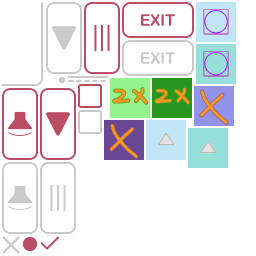
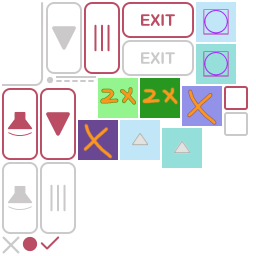
fix sprite sheets, hit chart

Changed region(s): [[0.1875, 0.2812, 0.9688, 0.6562]]

diff --git a/PttrnFlow/PttrnFlow/UI Nodes/TickHitChart.m b/PttrnFlow/PttrnFlow/UI Nodes/TickHitChart.m
@@ -10,7 +10,6 @@
 #import "ColorUtils.h"
 #import "CCSprite+Utils.h"
 #import "TickDispatcher.h"
-#import "SpritePicker.h"
 
 static CGFloat const kHitCellEdge = 2;
 static CGFloat const kHitChartHeight = 24;
@@ -25,28 +24,23 @@ static CGFloat const kHitChartHeight = 24;
 
 @implementation TickHitChart
 
-- (id)initWithNumberOfTicks:(int)numberOfTicks padding:(CGFloat)padding batchNode:(CCSpriteBatchNode *)batchNode origin:(CGPoint)origin
+- (id)initWithSpriteFrameName:(NSString *)spriteFrameName steps:(int)steps unitSize:(CGSize)unitSize
 {
-    self = [super init];
+    self = [super initWithSpriteFrameName:spriteFrameName];
     if (self) {
-        if (numberOfTicks < 1) {
-            NSLog(@"warning: number of ticks for TickerControl should be > 1");
+        if (steps < 1) {
+            NSLog(@"warning: steps for TickHitChart should be > 1");
         }
         
+        self.contentSize = CGSizeMake(unitSize.width * steps, unitSize.height);
         self.hitCells = [NSMutableArray array];
-        NSArray *frameNames = @[@"chart_box_off.png", @"chart_box_on.png"];
 
-        for (int i = 0; i < numberOfTicks; i++) {
-            CCSprite *spr = [CCSprite spriteWithSpriteFrameName:@"chart_box_off.png"];
-            CGPoint relPoint = ccp(i * (spr.contentSize.width + padding), 0);
-            relPoint = ccp(relPoint.x + (spr.contentSize.width / 2), relPoint.y + (spr.contentSize.height / 2));
-            CGPoint absPoint = ccp(relPoint.x + origin.x, relPoint.y + origin.y);
-            SpritePicker *hitCell = [[SpritePicker alloc] initWithFrameNames:frameNames center:absPoint batchNode:batchNode];
-            [self.hitCells addObject:hitCell];
+        for (int i = 0; i < steps; i++) {
+            CCSprite *spr = [CCSprite spriteWithSpriteFrameName:@"chartbox_off.png"];
+            spr.position = ccp((i * unitSize.width + (unitSize.width / 2)), unitSize.height / 2);
+            self.hitCells[i] = spr;
+            [self addChild:spr];
         }
-        
-        SpritePicker *lastCell = [self.hitCells lastObject];
-        self.contentSize = CGSizeMake(lastCell.position.x + lastCell.contentSize.width, lastCell.contentSize.height);
     }
     return self;
 }
@@ -54,28 +48,30 @@ static CGFloat const kHitChartHeight = 24;
 - (void)handleTickHit:(NSNotification *)notification
 {
     NSMutableArray *hits = notification.userInfo[kKeyHits];
-    int tickIndex = hits.count - 1;
-    NSNumber *hitSuccess = hits[tickIndex];
+    int index = hits.count - 1;
+    NSNumber *hitSuccess = hits[index];
     
     kHitStatus status;
     if ([hitSuccess boolValue]) {
         status = kHitStatusSuccess;
     }
     else {
-//        status = kHitStatusFailure;
-        // TODO: temporary until graphics are in
-        status = kHitStatusSuccess;
+        status = kHitStatusFailure;
     }
     
-    SpritePicker *hitCell = self.hitCells[tickIndex];
-    [hitCell pickSprite:status];
+    [self updateIndex:index state:status];
 }
 
 - (void)resetCells
 {
-    for (SpritePicker *cell in self.hitCells) {
-        [cell pickSprite:kHitStatusDefault];
+    for (int i = 0; i < self.hitCells.count; i++) {
+        [self updateIndex:i state:kHitStatusDefault];
     }
+}
+
+- (void)updateIndex:(int)index state:(kHitStatus)state
+{
+    NSLog(@"update index %i with status %i", index, state);
 }
 
 #pragma mark - CCNode SceneManagement
@@ -83,14 +79,12 @@ static CGFloat const kHitChartHeight = 24;
 - (void)onEnter
 {
     [super onEnter];
-    
     [[NSNotificationCenter defaultCenter] addObserver:self selector:@selector(handleTickHit:) name:kNotificationTickHit object:nil];
 }
 
 - (void)onExit
 {
     [[NSNotificationCenter defaultCenter] removeObserver:self];
-    
     [super onExit];
 }
 

diff --git a/PttrnFlow/PttrnFlow/Layers/SequenceUILayer.m b/PttrnFlow/PttrnFlow/Layers/SequenceUILayer.m
@@ -74,32 +74,34 @@ static int const kMaxControlLength = 6;
         CCMenuItemSprite *hamburgerButton = [[CCMenuItemSprite alloc] initWithNormalSprite:hamburgerOff selectedSprite:hamburgerOn disabledSprite:nil target:self selector:@selector(hamburgerButtonPressed:)];
         hamburgerButton.position = ccp((7 * buttonSize.width) / 2, yMidRow1);
         
+        // buttons must be added to a CCMenu to work
+        CCMenu *menu = [CCMenu menuWithItems:exitButton, speakerButton, playButton, hamburgerButton, nil];
+        menu.position = ccp(0, 0);
+        [self addChild:menu];
+        
         // ticker control
         int steps = (tickDispatcher.sequenceLength / 4);
         TickerControl *tickerControl = [[TickerControl alloc] initWithSpriteFrameName:@"clear_rect_uilayer.png" steps:steps unitSize:controlUnitSize];
         tickerControl.tickerControlDelegate = tickDispatcher;
-        tickerControl.position = ccp(tickerControl.contentSize.width / 2, ( 3 * tickerControl.contentSize.height ) / 2);
+        tickerControl.position = ccp(tickerControl.contentSize.width / 2, (3 * tickerControl.contentSize.height) / 2);
+        
+        // hit chart
+        TickHitChart *hitChart = [[TickHitChart alloc] initWithSpriteFrameName:@"clear_rect_uilayer.png" steps:steps unitSize:controlUnitSize];
+        _hitChart = hitChart;
+        hitChart.position = ccp(hitChart.contentSize.width / 2, hitChart.contentSize.height / 2);
         
         // pan sprite
         CGFloat panNodeWidth = MIN(steps, kMaxControlLength) * controlUnitSize.width;
         CGSize panNodeSize = CGSizeMake(panNodeWidth, 2 * controlUnitSize.height);
         CGSize scrollingContainerSize = CGSizeMake(steps * controlUnitSize.width, panNodeSize.height);
         CGPoint panNodeOrigin = ccp(0, controlBarBottom);
-        PanSprite *panSprite = [[PanSprite alloc] initWithSpriteFrameName:@"clear_rect_uilayer.png" contentSize:panNodeSize scrollingSize:scrollingContainerSize scrollSprites:@[tickerControl]];
+        PanSprite *panSprite = [[PanSprite alloc] initWithSpriteFrameName:@"clear_rect_uilayer.png" contentSize:panNodeSize scrollingSize:scrollingContainerSize scrollSprites:@[hitChart, tickerControl]];
         panSprite.scrollDirection = ScrollDirectionHorizontal;
         panSprite.position = panNodeOrigin;
         [self addChild:panSprite];
         
-        // buttons must be added to a CCMenu to work
-        CCMenu *menu = [CCMenu menuWithItems:exitButton, speakerButton, playButton, hamburgerButton, nil];
-        menu.position = ccp(0, 0);
-        [self addChild:menu];
         
-//        // tick hit chart
-//        CGPoint hitChartOrigin = ccp(matchButton.position.x + matchButton.contentSize.width, self.contentSize.height - topBarHeight);
-//        TickHitChart *hitChart = [[TickHitChart alloc] initWithNumberOfTicks:tickDispatcher.sequenceLength padding:2 batchNode:uiBatch origin:hitChartOrigin];
-//        [self addChild:hitChart];
-//        _hitChart = hitChart;
+        
 //
 //        // drag items
 //        int i = 0;

diff --git a/PttrnFlow/PttrnFlow/Generic Nodes/ClippingSprite.m b/PttrnFlow/PttrnFlow/Generic Nodes/ClippingSprite.m
@@ -1,10 +1,15 @@
 //
-//  ClippingNode.m
+//  ClippingSprite.m
 //
 
 #import "ClippingSprite.h"
 
 @implementation ClippingSprite
+
++ (id)clippingSpriteWithRect:(CGRect)rect
+{
+    return [[self alloc] initWithRect:rect];
+}
 
 - (id)initWithRect:(CGRect)rect
 {
@@ -14,17 +19,12 @@
     return self;
 }
 
-+ (id)clippingSpriteWithRect:(CGRect)rect
-{
-    return [[self alloc] initWithRect:rect];
-}
-
--(CGRect) clippingRegion
+- (CGRect)clippingRegion
 {
     return clippingRegionInNodeCoordinates;
 }
 
--(void) setClippingRegion:(CGRect)region
+- (void)setClippingRegion:(CGRect)region
 {
     // keep the original region coordinates in case the user wants them back unchanged
     clippingRegionInNodeCoordinates = region;
@@ -37,13 +37,13 @@
     clippingRegion = CGRectMake(region.origin.x * self.scaleX, region.origin.y * self.scaleY, region.size.width * self.scaleX, region.size.height * self.scaleY);
 }
 
--(void) setScale:(float)newScale
+- (void)setScale:(float)newScale
 {
     [super setScale:newScale];
     [self setClippingRegion:clippingRegionInNodeCoordinates];
 }
 
--(void) visit
+- (void)visit
 {
     glEnable(GL_SCISSOR_TEST);
     CGPoint worldPosition = [self convertToWorldSpace:CGPointZero];

diff --git a/PttrnFlow/PttrnFlow/UI Nodes/TickHitChart.h b/PttrnFlow/PttrnFlow/UI Nodes/TickHitChart.h
@@ -15,9 +15,9 @@ typedef enum
     kHitStatusFailure,
 } kHitStatus;
 
-@interface TickHitChart : CCNode
+@interface TickHitChart : CCSprite
 
-- (id)initWithNumberOfTicks:(int)numberOfTicks padding:(CGFloat)padding batchNode:(CCSpriteBatchNode *)batchNode origin:(CGPoint)origin;
+- (id)initWithSpriteFrameName:(NSString *)spriteFrameName steps:(int)steps unitSize:(CGSize)unitSize;
 - (void)resetCells;
 
 @end

diff --git a/PttrnFlow/PttrnFlow/Generic Nodes/ClippingSprite.h b/PttrnFlow/PttrnFlow/Generic Nodes/ClippingSprite.h
@@ -12,8 +12,8 @@
     CGRect clippingRegion;
 }
 
-+ (id)clippingSpriteWithRect:(CGRect)rect;
-
 @property (nonatomic) CGRect clippingRegion;
+
++ (id)clippingSpriteWithRect:(CGRect)rect;
 
 @end
